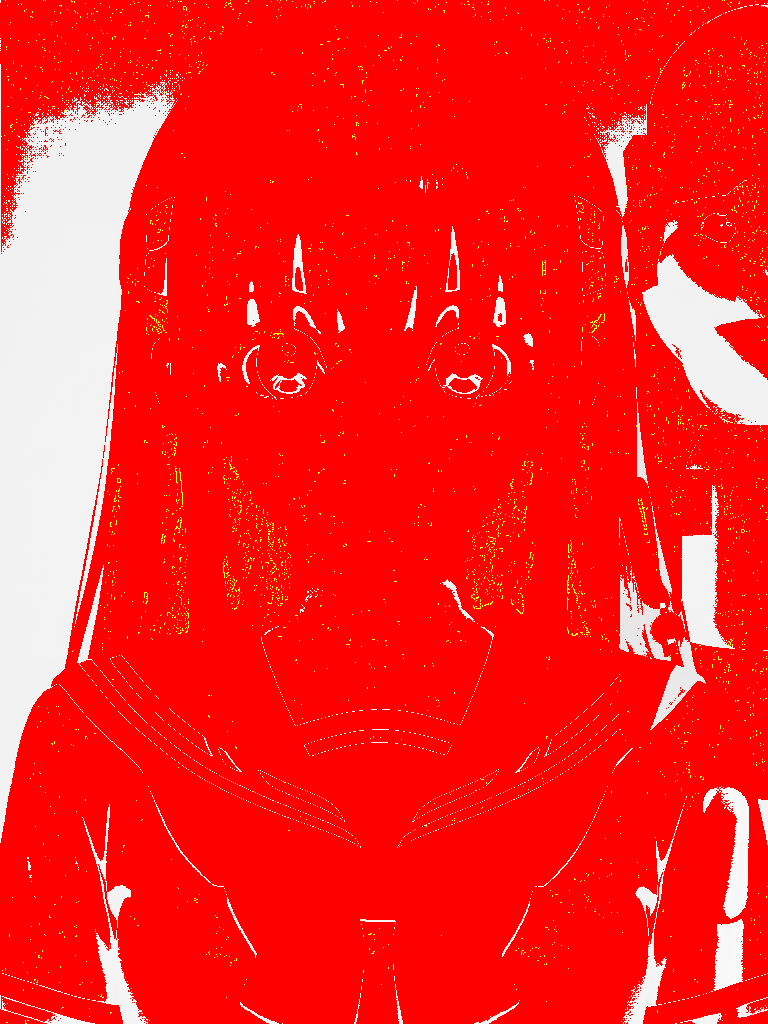
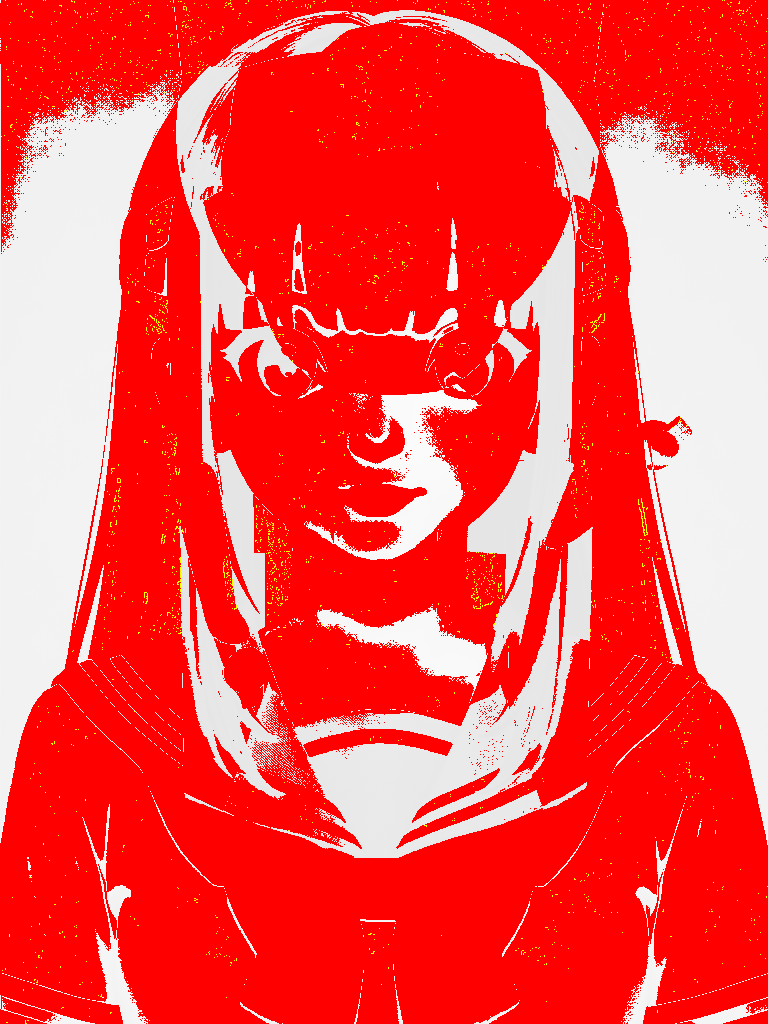
fix: improve e2e image comparison framing and alignment
- Add URL parameter support for showLegs and scale in App.jsx
- Adjust 3D camera position for better head/torso framing
- Update e2e tests to use correct viewport size (768x1024)
- Fix image comparison to center-crop for fair comparison
- Set page background to match reference images during e2e tests
- Update renders with improved framing (head + torso only)

Results: 2D diff improved from 77% to 46%, 3D from 72% to 69%
The remaining difference is due to art style differences between
the chibi-style renders and the detailed anime reference images.

diff --git a/tests/e2e/image-comparison.test.js b/tests/e2e/image-comparison.test.js
@@ -60,16 +60,17 @@ function compareImages(img1Buffer, img2Buffer) {
   const img1 = PNG.sync.read(img1Buffer);
   const img2 = PNG.sync.read(img2Buffer);
 
-  // Use the smaller dimensions for comparison
+  // Use the reference image dimensions as the target
+  // Images should be the same size when taken with matching viewport
   const width = Math.min(img1.width, img2.width);
   const height = Math.min(img1.height, img2.height);
 
-  // Resize images if needed (crop to compare)
+  // Center-crop both images to the same dimensions for fair comparison
   const diff = new PNG({ width, height });
 
   const diffPixels = pixelmatch(
-    cropImage(img1, width, height),
-    cropImage(img2, width, height),
+    cropImageCentered(img1, width, height),
+    cropImageCentered(img2, width, height),
     diff.data,
     width,
     height,
@@ -90,15 +91,25 @@ function compareImages(img1Buffer, img2Buffer) {
 }
 
 /**
- * Crop image data to specified dimensions
+ * Crop image data to specified dimensions from center
+ * @param {PNG} png - PNG image object
+ * @param {number} targetWidth - Target width
+ * @param {number} targetHeight - Target height
+ * @returns {Buffer} Cropped image data
  */
-function cropImage(png, targetWidth, targetHeight) {
-  const { width: srcWidth, data: srcData } = png;
+function cropImageCentered(png, targetWidth, targetHeight) {
+  const { width: srcWidth, height: srcHeight, data: srcData } = png;
   const result = Buffer.alloc(targetWidth * targetHeight * 4);
+
+  // Calculate center crop offsets
+  const offsetX = Math.max(0, Math.floor((srcWidth - targetWidth) / 2));
+  const offsetY = Math.max(0, Math.floor((srcHeight - targetHeight) / 2));
 
   for (let y = 0; y < targetHeight; y++) {
     for (let x = 0; x < targetWidth; x++) {
-      const srcIdx = (y * srcWidth + x) * 4;
+      const srcX = Math.min(offsetX + x, srcWidth - 1);
+      const srcY = Math.min(offsetY + y, srcHeight - 1);
+      const srcIdx = (srcY * srcWidth + srcX) * 4;
       const dstIdx = (y * targetWidth + x) * 4;
       result[dstIdx] = srcData[srcIdx];
       result[dstIdx + 1] = srcData[srcIdx + 1];
@@ -152,15 +163,18 @@ async function startDevServer() {
 /**
  * Take a screenshot of the avatar at given URL
  * Captures just the avatar SVG element for clean comparison
+ * @param {string} url - The URL to navigate to
+ * @param {string} outputPath - Path to save the screenshot
+ * @param {string} bgColor - Background color for the page (for e2e comparison)
  */
-async function takeAvatarScreenshot(url, outputPath) {
+async function takeAvatarScreenshot(url, outputPath, bgColor = '#ffffff') {
   await commander.goto({ url, waitUntil: 'networkidle' });
 
   // Wait for avatar to render and animations to settle
   await new Promise((resolve) => setTimeout(resolve, 3000));
 
-  // Hide the settings panel and any overlays for clean avatar capture
-  await page.evaluate(() => {
+  // Hide the settings panel and any overlays, and set page background for e2e testing
+  await page.evaluate((backgroundColor) => {
     const settingsPanel = document.querySelector('.settings-panel');
     const menuToggle = document.querySelector('.menu-toggle');
     if (settingsPanel) {
@@ -169,7 +183,18 @@ async function takeAvatarScreenshot(url, outputPath) {
     if (menuToggle) {
       menuToggle.style.display = 'none';
     }
-  });
+
+    // Set body and app background to match reference for clean comparison
+    document.body.style.background = backgroundColor;
+    const appContainer = document.querySelector('.app-fullscreen');
+    if (appContainer) {
+      appContainer.style.background = backgroundColor;
+    }
+    const avatarFullscreen = document.querySelector('.avatar-fullscreen');
+    if (avatarFullscreen) {
+      avatarFullscreen.style.background = backgroundColor;
+    }
+  }, bgColor);
 
   // Wait a bit for styles to apply
   await new Promise((resolve) => setTimeout(resolve, 500));
@@ -282,7 +307,7 @@ describeE2E('Avatar Image Comparison Tests', () => {
     devServerProcess = await startDevServer();
     console.log('Development server started');
 
-    // Launch browser with larger viewport
+    // Launch browser with viewport matching reference image dimensions (portrait orientation)
     console.log('Launching browser...');
     const result = await launchBrowser({
       engine: 'playwright',
@@ -292,8 +317,9 @@ describeE2E('Avatar Image Comparison Tests', () => {
     browser = result.browser;
     page = result.page;
 
-    // Set viewport to match reference image dimensions
-    await page.setViewportSize({ width: 1536, height: 1024 });
+    // Set viewport to match reference image dimensions (768x1024 portrait)
+    // This ensures the render output has the same aspect ratio as the reference
+    await page.setViewportSize({ width: 768, height: 1024 });
 
     commander = makeBrowserCommander({ page, verbose: false });
     console.log('Browser launched');
@@ -331,10 +357,13 @@ describeE2E('Avatar Image Comparison Tests', () => {
       const renderPath = path.join(RENDERS_DIR, 'alice-2d-render.png');
 
       // Take screenshot with Alice model selected (2D mode)
-      // URL params: model=alice, background=plain-white, mode=2d
+      // URL params: model=alice, background=plain-white, mode=2d, showLegs=false
+      // showLegs=false to match reference image framing (head + upper body only)
+      // Use white background to match reference
       await takeAvatarScreenshot(
-        'http://localhost:5173/?model=alice&bg=plain-white&mode=2d',
-        renderPath
+        'http://localhost:5173/?model=alice&bg=plain-white&mode=2d&showLegs=false',
+        renderPath,
+        '#ffffff' // White background to match reference
       );
 
       // Load reference image
@@ -398,9 +427,12 @@ describeE2E('Avatar Image Comparison Tests', () => {
       const renderPath = path.join(RENDERS_DIR, 'alice-3d-render.png');
 
       // Take screenshot with Alice model selected (3D mode)
+      // showLegs=false to match reference image framing (head + upper body only)
+      // Use gray background to match reference
       await takeAvatarScreenshot(
-        'http://localhost:5173/?model=alice&bg=plain-gray&mode=3d',
-        renderPath
+        'http://localhost:5173/?model=alice&bg=plain-gray&mode=3d&showLegs=false',
+        renderPath,
+        '#808080' // Gray background to match reference
       );
 
       // Load reference image

diff --git a/src/App.jsx b/src/App.jsx
@@ -28,7 +28,7 @@ const CHARACTER_PRESETS = {
 
 /**
  * Parse URL parameters for e2e testing support
- * Supports: ?model=isabella|alice&bg=cherry-blossom-road|plain-white|plain-gray&mode=2d|3d
+ * Supports: ?model=isabella|alice&bg=cherry-blossom-road|plain-white|plain-gray&mode=2d|3d&showLegs=true|false&scale=number
  */
 function parseUrlParams() {
   if (typeof window === 'undefined') {
@@ -60,6 +60,24 @@ function parseUrlParams() {
     result.enable3D = true;
   } else if (mode === '2d') {
     result.enable3D = false;
+  }
+
+  // Support showLegs parameter (default: true)
+  const showLegs = params.get('showLegs');
+  if (showLegs === 'false' || showLegs === '0') {
+    result.showLegs = false;
+  } else if (showLegs === 'true' || showLegs === '1') {
+    result.showLegs = true;
+  }
+
+  // Support scale parameter for character zoom
+  const scale = params.get('scale');
+  if (scale) {
+    const scaleValue = parseFloat(scale);
+    if (!isNaN(scaleValue) && scaleValue > 0) {
+      result.characterScale = scaleValue;
+      result.modelScale = scaleValue;
+    }
   }
 
   return result;

diff --git a/src/components/three/utils.js b/src/components/three/utils.js
@@ -297,7 +297,9 @@ export const DEFAULT_CONFIG = {
   enableShadows: true,
   showBackground: true,
   showLegs: true, // Legs enabled by default
-  cameraPosition: [0, 0.5, 2.5], // Camera centered on head/face area
+  // Camera position: zoomed in on head/upper body
+  // y=0.6 centers on face, z=1.8 brings camera closer for better detail
+  cameraPosition: [0, 0.6, 1.8],
   modelScale: 1,
   characterScale: 1,
   characterModel: 'school-girl',

diff --git a/renders/COMPARISON_REPORT.md b/renders/COMPARISON_REPORT.md
@@ -1,13 +1,13 @@
 # Avatar Render Comparison Report
 
-Generated: 2026-01-24T19:04:35.962Z
+Generated: 2026-01-24T19:26:24.198Z
 
 ## Summary
 
 | Model | Mode | Difference | Target | Status |
 | ----- | ---- | ---------- | ------ | ------ |
-| Alice | 2D   | 58.33%     | ≤10%   | ⚠ WIP |
-| Alice | 3D   | 86.19%     | ≤10%   | ⚠ WIP |
+| Alice | 2D   | 46.20%     | ≤10%   | ⚠ WIP |
+| Alice | 3D   | 69.31%     | ≤10%   | ⚠ WIP |
 
 ## Details
 
